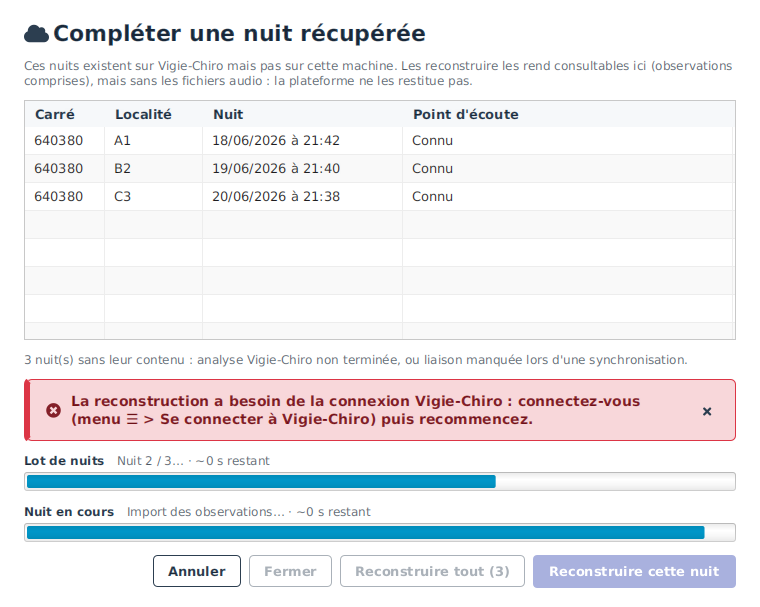
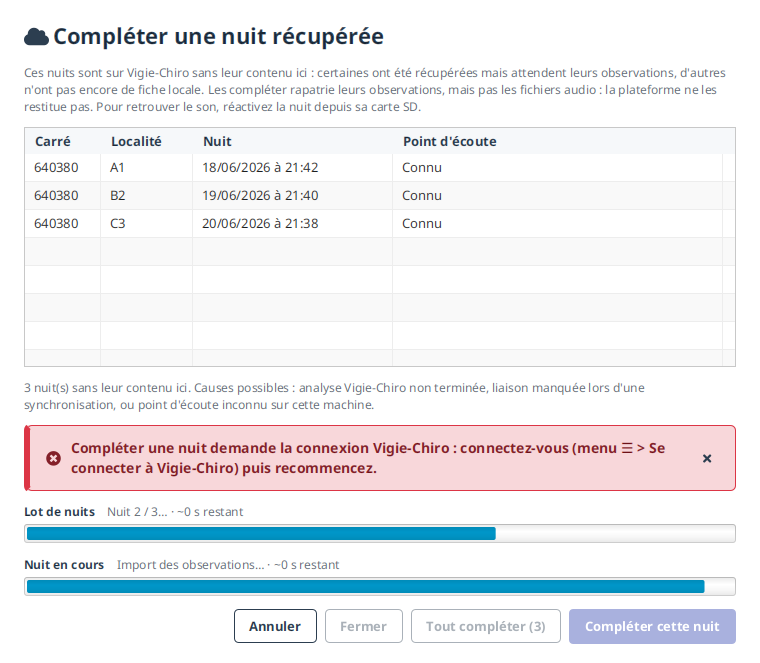
feat(multisite): la modale de complétion parle enfin une seule langue
La passe 4 avait renommé le titre, l'entrée de menu et l'état de liste. La passe 8 a ouvert
l'image : dans la même fenêtre, le sous-titre annonçait des nuits « qui n'existent pas sur
cette machine », le bandeau parlait de « la reconstruction », et les deux boutons disaient
« Reconstruire ». Un renommage à moitié fait ne se voit pas en lisant un diff ; il se voit
en regardant l'écran.

Deux affirmations étaient en plus fausses, et pour la même raison : la liste mêle des nuits
récupérées qui attendent leurs observations et des nuits sans fiche locale. Le sous-titre en
décrivait une seule, l'état de liste n'annonçait que deux causes sur trois. Les deux disent
désormais ce qu'on constate, sans en choisir une pour l'autre moitié.

Le refus du modèle cesse aussi de nommer un geste : « Compléter une nuit demande la connexion
Vigie-Chiro », là où « la reconstruction » désignait une opération que l'utilisateur ne
demandait plus.

Refs #2554

Changed region(s): [[0.0303, 0.5338, 0.9684, 0.9786], [0.0303, 0.0297, 0.9684, 0.3558]]

diff --git a/src/main/java/fr/univ_amu/iut/multisite/viewmodel/ReconstructionViewModel.java b/src/main/java/fr/univ_amu/iut/multisite/viewmodel/ReconstructionViewModel.java
@@ -130,9 +130,14 @@ public class ReconstructionViewModel {
         etatListe.set(
                 chargees.isEmpty()
                         ? "Rien à compléter : toutes vos nuits Vigie-Chiro sont ici, avec leur contenu."
+                        // Causes POSSIBLES, au pluriel et sans en choisir une : la liste mêle des nuits
+                        // récupérées qui attendent leur analyse et des nuits sans fiche locale (point
+                        // inconnu ici). Annoncer une cause unique en affirmerait une non constatée pour
+                        // l'autre moitié - le défaut que la passe 1 de #2554 a corrigé sur le compte rendu.
                         : chargees.size()
-                                + " nuit(s) sans leur contenu : analyse Vigie-Chiro non terminée, ou liaison"
-                                + " manquée lors d'une synchronisation.");
+                                + " nuit(s) sans leur contenu ici. Causes possibles : analyse Vigie-Chiro non"
+                                + " terminée, liaison manquée lors d'une synchronisation, ou point d'écoute"
+                                + " inconnu sur cette machine.");
     }
 
     /// **Bloquant** (réseau + base) : reconstruit la participation choisie en passage archivé, en relayant
@@ -149,7 +154,7 @@ public class ReconstructionViewModel {
     public void restituer(ParticipationOrpheline orpheline, RapportReconstruction rapport) {
         orphelines.remove(orpheline);
         reconstruit.set(true);
-        String rendu = "Nuit du " + orpheline.dateDebut() + " reconstruite (passage archivé) : "
+        String rendu = "Nuit du " + orpheline.dateDebut() + " complétée (passage archivé) : "
                 + rapport.sequencesRecreees() + " séquence(s), " + rapport.observationsImportees()
                 + " observation(s) rapatriée(s)."
                 + System.lineSeparator()
@@ -187,7 +192,7 @@ public class ReconstructionViewModel {
     public void restituerLot(ServiceReconstructionPassages.BilanReconstructionGroupe bilan) {
         Objects.requireNonNull(bilan, "bilan");
         reconstruit.set(bilan.reussies() > 0);
-        String rendu = bilan.reussies() + " nuit(s) reconstruite(s) : " + bilan.sequences() + " séquence(s), "
+        String rendu = bilan.reussies() + " nuit(s) complétée(s) : " + bilan.sequences() + " séquence(s), "
                 + bilan.observations() + " observation(s) rapatriée(s).";
         if (bilan.ignorees() > 0) {
             rendu += System.lineSeparator() + bilan.ignorees()
@@ -195,7 +200,7 @@ public class ReconstructionViewModel {
                     + " dans la liste.";
         }
         rendu += System.lineSeparator()
-                + "Les passages reconstruits sont consultables mais pas écoutables (le dépôt ZIP ne restitue"
+                + "Ces nuits sont consultables mais pas écoutables (le dépôt ZIP ne restitue"
                 + " pas l'audio). Réactivez-les si vous retrouvez les fichiers d'origine.";
         retour.set(RetourOperation.succes(rendu));
     }
@@ -211,11 +216,14 @@ public class ReconstructionViewModel {
     /// reconstruction se compense côté service), et on le dit plutôt que de laisser un écran figé.
     public void signalerAnnulation() {
         // Ni un succès (rien n'a été créé), ni une erreur (rien n'a raté, l'utilisateur a arrêté).
-        retour.set(RetourOperation.info("Reconstruction annulée : aucun passage n'a été créé."));
+        retour.set(RetourOperation.info("Opération annulée : aucune nuit n'a été complétée."));
     }
 
+    /// Le message nomme ce qui **manque**, pas le geste : la même modale sert désormais à **compléter** une
+    /// nuit récupérée, et parler de « reconstruction » y désignait une opération que l'utilisateur ne
+    /// demandait plus (#2554, passe 8).
     private ServiceReconstructionPassages exiger() {
-        return service.orElseThrow(() -> new RegleMetierException("La reconstruction a besoin de la connexion"
+        return service.orElseThrow(() -> new RegleMetierException("Compléter une nuit demande la connexion"
                 + " Vigie-Chiro : connectez-vous (menu ☰ > Se connecter à Vigie-Chiro) puis recommencez."));
     }
 }

diff --git a/src/main/java/fr/univ_amu/iut/multisite/view/ReconstructionModaleController.java b/src/main/java/fr/univ_amu/iut/multisite/view/ReconstructionModaleController.java
@@ -208,7 +208,7 @@ public class ReconstructionModaleController {
         zoneProgressionGlobale.managedProperty().bind(lotEnCours);
         boutonReconstruireTout
                 .textProperty()
-                .bind(Bindings.concat("Reconstruire tout (", Bindings.size(viewModel.orphelines()), ")"));
+                .bind(Bindings.concat("Tout compléter (", Bindings.size(viewModel.orphelines()), ")"));
         boutonReconstruireTout
                 .disableProperty()
                 .bind(Bindings.isEmpty(viewModel.orphelines()).or(operationEnCours));

diff --git a/src/test/java/fr/univ_amu/iut/multisite/viewmodel/ReconstructionViewModelTest.java b/src/test/java/fr/univ_amu/iut/multisite/viewmodel/ReconstructionViewModelTest.java
@@ -108,7 +108,7 @@ class ReconstructionViewModelTest {
         assertThat(rendu).as("le viewModel renvoie le bilan du service").isSameAs(bilan);
         viewModel.restituerLot(rendu);
         assertThat(viewModel.retourProperty().get().texte())
-                .contains("2 nuit(s) reconstruite(s)")
+                .contains("2 nuit(s) complétée(s)")
                 .contains("1 nuit(s) ignorée(s)");
         assertThat(viewModel.reconstruitProperty().get())
                 .as("au moins une nuit reconstruite : l'appelant doit recharger sa table")

diff --git a/src/test/java/fr/univ_amu/iut/multisite/view/ReconstructionModaleViewTest.java b/src/test/java/fr/univ_amu/iut/multisite/view/ReconstructionModaleViewTest.java
@@ -166,7 +166,7 @@ class ReconstructionModaleViewTest {
 
         assertThat(robot.lookup("#lblRetour").queryAs(Label.class).getText())
                 .as("le lot reconstruit la nuit située et ignore celle au point inconnu")
-                .contains("1 nuit(s) reconstruite(s)")
+                .contains("1 nuit(s) complétée(s)")
                 .contains("1 nuit(s) ignorée(s)");
         robot.interact(() -> robot.lookup("#boutonFermer").queryButton().fire());
         assertThat(appelantRafraichi)
